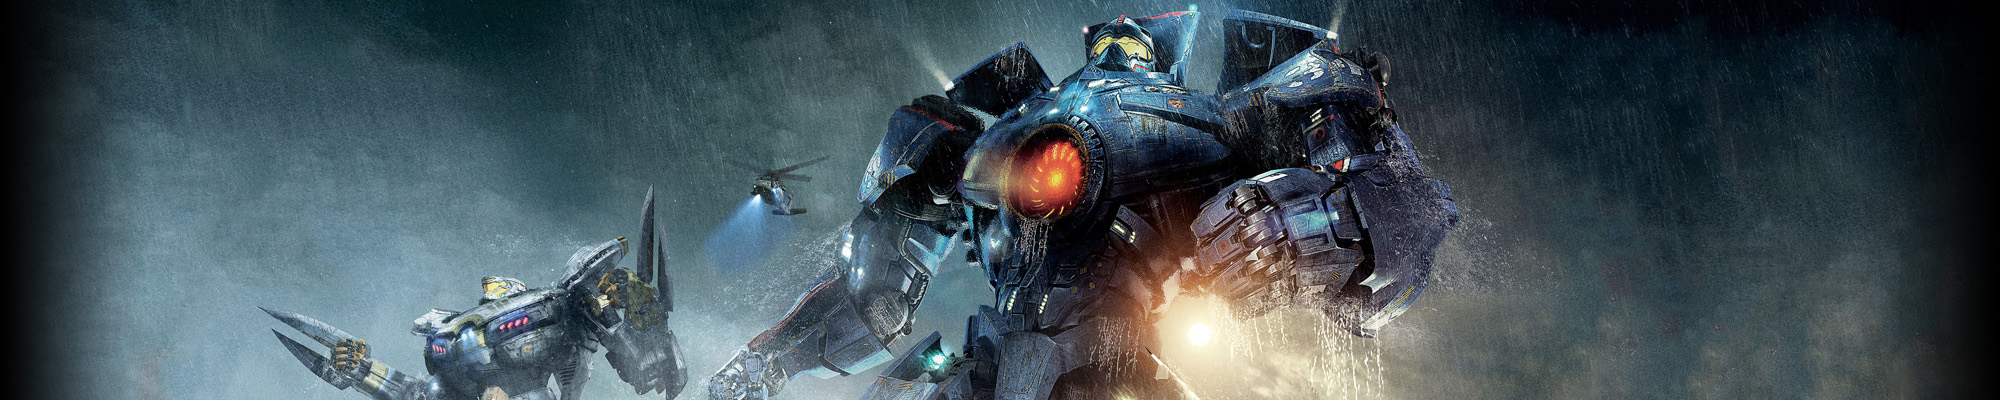
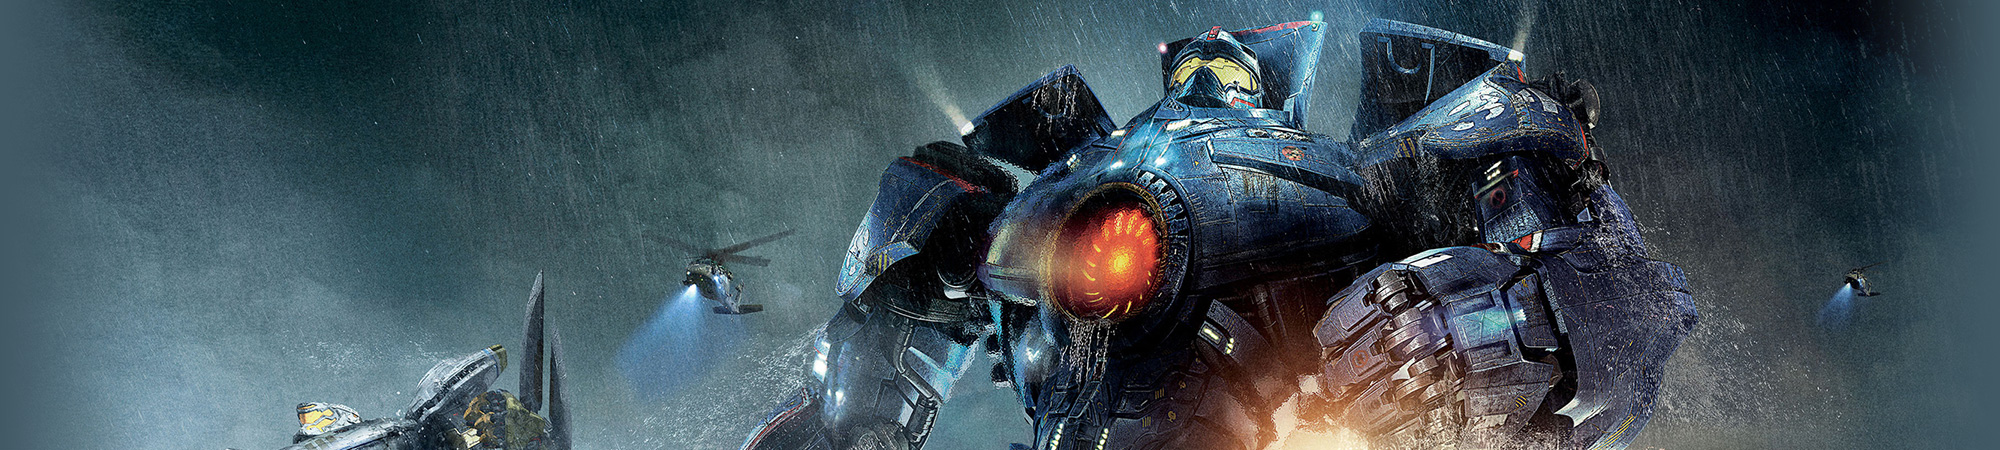
Updated episodes 101-105 images

diff --git a/resources/assets/sass/modules/index/player.scss b/resources/assets/sass/modules/index/player.scss
@@ -55,13 +55,14 @@ $timeWidth: 235px + $paddingSmall;
 /* PLAYER */
 
 $playerHeight: 350px;
+$playerBorderSize: 5px;
 
 .player {
 	position: relative;
 	width: 100%;
-	height: $playerHeight;
-	border-bottom: 5px solid $colour-steamchat;
-	background: center center no-repeat transparent;
+	height: $playerHeight + $playerBorderSize;
+	border-bottom: $playerBorderSize solid $colour-steamchat;
+	background: top center no-repeat transparent;
 }
 
 .player > .container {
@@ -77,7 +78,7 @@ $playerHeight: 350px;
 	$playerHeight: 450px;
 
 	.player {
-		height: $playerHeight;
+		height: $playerHeight + $playerBorderSize;
 	}
 
 }
@@ -85,6 +86,7 @@ $playerHeight: 350px;
 @media (max-width: 1000px - 1px) {
 
 	.player {
+		background-position: center center;
 		background-size: cover;
 	}
 
